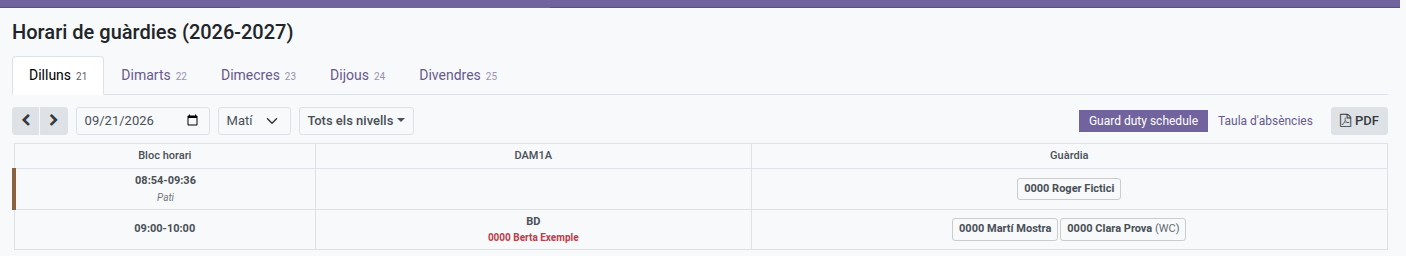
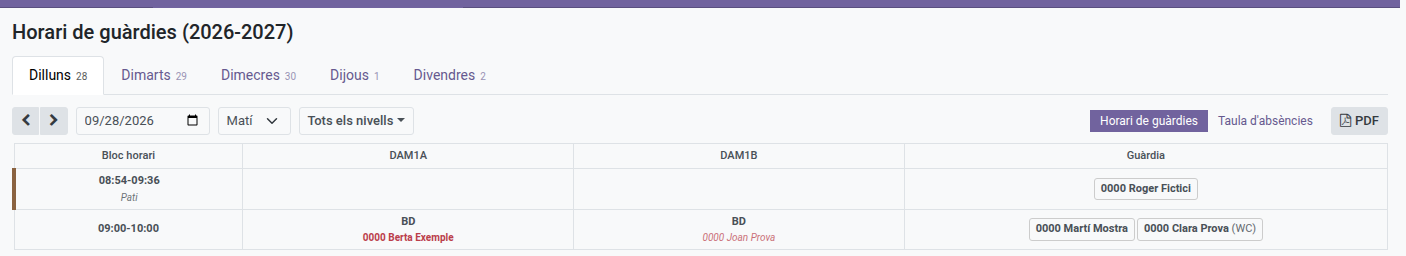
done

diff --git a/tests/test_docs_screenshots_teachers.py b/tests/test_docs_screenshots_teachers.py
@@ -371,6 +371,23 @@ class TestDocsScreenshotsTeachers(DocsScreenshotMixin, HttpCase):
             'ems_full_day': True, 'ems_submitted': True, 'ems_responsible_declaration': True,
         }).action_approve()
 
+        # A second teaching teacher, in another group at the same time, whose absence the Head of
+        # Studies has entered as expected (issue #509): it reads as pending, not approved.
+        expected_group = self.env['ems.group'].create({
+            'course': 1, 'acronym': 'B', 'level_id': level.id, 'study_id': study.id,
+        })
+        expected_teacher = self.env['hr.employee'].create({'name': '0000 Joan Prova', 'employee_type': 'teacher'})
+        expected_calendar = self.env['resource.calendar'].create({
+            'name': '0000 Joan Prova Calendar', 'employee_id': expected_teacher.id})
+        expected_teacher.resource_calendar_id = expected_calendar
+        expected_calendar.apply_schedule_changes([{
+            'dayofweek': '0', 'hour_from': 9, 'hour_to': 10, 'day_period': 'morning',
+            'subject_id': subject.id, 'group_ids': [expected_group.id], 'name': 'DOCGUARD: BD',
+        }])
+        Pending = self.env['ems.absence_pending']
+        start, stop = Pending._utc_bounds(monday, 8.0, 15.0)
+        Pending.create({'employee_id': expected_teacher.id, 'date_from': start, 'date_to': stop})
+
         # This board has no domain to scope it by (get_guard_duty_board_data() is a plain RPC,
         # not a view/action with a 'domain' field) and its own aggregation is explicitly
         # centre-wide by design (_get_guard_duty_board_attendance_ids()'s own NOTE) - even WITH
@@ -390,7 +407,8 @@ class TestDocsScreenshotsTeachers(DocsScreenshotMixin, HttpCase):
         # data only. addCleanup (not addClassCleanup): this is a real, process-wide monkeypatch,
         # not a DB write - it must not leak into any other test in this class.
         fixture_employee_ids = (
-            teaching_teacher | guard_teacher | wc_guard_teacher | patio_guard_teacher).ids
+            teaching_teacher | guard_teacher | wc_guard_teacher | patio_guard_teacher
+            | expected_teacher).ids
         course_model = type(self.env['ems.course'])
         original_get_attendance_ids = course_model._get_guard_duty_board_attendance_ids
 

diff --git a/tests/test_docs_screenshots_head_of_studies.py b/tests/test_docs_screenshots_head_of_studies.py
@@ -213,6 +213,39 @@ class TestDocsScreenshotsHeadOfStudies(HttpCase, DocsScreenshotMixin):
             'main_group_id': cls.group.id,
         })
 
+    def test_capture_expected_absences(self):
+        # Two teachers below this Head of Studies (the model only lets them pick their own branch):
+        # one still expected, one whose own request has since been filed and linked the entry.
+        expected_teacher, requested_teacher = self.env['hr.employee'].create([{
+            'name': name, 'employee_type': 'teacher', 'parent_id': self.hos_employee.id,
+        } for name in ('0000 Joan Exemple', '0000 Núria Mostra')])
+        Pending = self.env['ems.absence_pending']
+        expected = Pending.create([{
+            'employee_id': teacher.id, 'date_from': start, 'date_to': stop,
+        } for teacher, (start, stop) in (
+            (expected_teacher, Pending._utc_bounds(datetime(2027, 4, 12).date(), 8.0, 15.0)),
+            (requested_teacher, Pending._utc_bounds(datetime(2027, 4, 14).date(), 8.0, 11.0)),
+        )])
+        self.env['hr.leave'].create({
+            'employee_id': requested_teacher.id, 'holiday_status_id': self.leave_type_justified.id,
+            'request_date_from': datetime(2027, 4, 14).date(), 'request_date_to': datetime(2027, 4, 14).date(),
+            'ems_full_day': True, 'ems_submitted': True, 'ems_responsible_declaration': True,
+        })
+        self.assertEqual(expected.mapped('state'), ['pending', 'linked'])
+        # Scoped to the fixture, and without the action's default "Expected" filter, so both
+        # states show.
+        action = self.env['ir.actions.act_window'].create({
+            'name': 'Absències previstes',
+            'res_model': 'ems.absence_pending',
+            'view_mode': 'list,form',
+            'domain': [('id', 'in', expected.ids)],
+        })
+        self._capture(
+            '/odoo/action-%d' % action.id,
+            '.o_list_table', 'hos-expected-absences-list.png',
+            login='doc_shot_hos', wait_for='.o_list_renderer .o_data_row + .o_data_row',
+        )
+
     def test_capture_head_of_studies_screenshots(self):
         self._capture(
             '/odoo/action-%d' % self.absence_action.id,

diff --git a/changelog/509-pending-to-request-absences-by-hosdhos.md b/changelog/509-pending-to-request-absences-by-hosdhos.md
@@ -8,11 +8,18 @@
 - Access follows the real hierarchy, not the role: only `ems.group_head_of_studies` has access (the Director implies it), narrowed by `rule_absence_pending_hierarchy` to teachers below the user through `parent_id` (`child_of user.employee_ids`). A Head of Studies or Deputy reaches only their own teachers; the Director reaches everyone; Department Chiefs, tutors and teachers have no access at all. Technical administrators (`base.group_system`, e.g. `admin`), who usually are not in the org chart, reach every teacher through a rule of their own.
 - Odoo's own "Time Off" entry under Management is replaced by an EMS entry on the same action, "Requested absences", so the two kinds (expected vs requested) can be told apart in the menu.
 - Tests (`TestAbsencePending`, `TestAbsencePendingTour` logged in as a Head of Studies), developer docs (`absence.md`, `guard_duty_board.md`), Head of Studies manual section and a note in the teachers' guard duty manual (en/ca/es), ca_ES/es_ES translations.
+- Screenshots: the Head of Studies manual shows the expected absences list (one expected, one already requested; `TestDocsScreenshotsHeadOfStudies.test_capture_expected_absences`), and the teachers' guard duty screenshots now include an expected absence in its pending style.
 
 ## Co-taught classes struck through on the guard duty absences table:
 
 - When a class is co-taught (two teachers, same group, period and room) and only one of them is away, their line on the absences table (screen and PDF) stays listed but struck through, with a tooltip: someone is missing, but the other teacher is taking the class, so no guard is needed.
 - A group split across two rooms, or a class where both teachers are away, is not marked: it still needs covering.
+
+# Fixes
+
+## Guard duty board's "Guard duty schedule" button untranslated:
+
+- The button switching the guard duty board back to the timetable view showed in English in Catalan and Spanish; its JS translation was missing from both `.po` files (only the "Guard duty schedule (%s)" title was there).
 
 # Changes
 

diff --git a/docs/en/head_of_studies/absences.md b/docs/en/head_of_studies/absences.md
@@ -156,4 +156,6 @@ From that moment the teacher appears on the guard duty schedule as absent with a
 
 When the teacher requests the absence themselves, the expected absence is linked to it automatically and its status changes from **Expected** to **Requested**. From then on only the teacher's own request counts, with its own dates and hours: if it is later refused or cancelled, the entry does not come back onto the schedule. A requested entry can no longer be edited; it stays in the list, under the **Requested** filter, as a record.
 
+![Expected absences list, one still expected and one already requested by the teacher](../../assets/head_of_studies/hos-expected-absences-list.png)
+
 If the teacher turns out not to be absent after all, delete the entry.

diff --git a/docs/ca/head_of_studies/absences.md b/docs/ca/head_of_studies/absences.md
@@ -154,4 +154,6 @@ A partir d'aquest moment, el docent surt a l'horari de guàrdies com a absent am
 
 Quan el docent sol·licita l'absència, l'absència prevista s'hi vincula automàticament i el seu estat passa de **Prevista** a **Sol·licitada**. Des d'aleshores només compta la sol·licitud del docent, amb les seves dates i hores: si després es rebutja o es cancel·la, l'entrada no torna a l'horari de guàrdies. Una entrada sol·licitada ja no es pot modificar; queda a la llista, amb el filtre **Sol·licitada**, com a registre.
 
+![Llista d'absències previstes, una encara prevista i una ja sol·licitada pel docent](../../assets/head_of_studies/hos-expected-absences-list.png)
+
 Si finalment el docent no falta, esborra l'entrada.

diff --git a/docs/es/head_of_studies/absences.md b/docs/es/head_of_studies/absences.md
@@ -154,4 +154,6 @@ A partir de ese momento, el docente aparece en el horario de guardias como ausen
 
 Cuando el docente solicita la ausencia, la ausencia prevista se vincula a ella automáticamente y su estado pasa de **Prevista** a **Solicitada**. Desde entonces solo cuenta la solicitud del docente, con sus fechas y horas: si después se rechaza o se cancela, la entrada no vuelve al horario de guardias. Una entrada solicitada ya no se puede modificar; queda en la lista, con el filtro **Solicitada**, como registro.
 
+![Lista de ausencias previstas, una todavía prevista y otra ya solicitada por el docente](../../assets/head_of_studies/hos-expected-absences-list.png)
+
 Si finalmente el docente no falta, borra la entrada.
